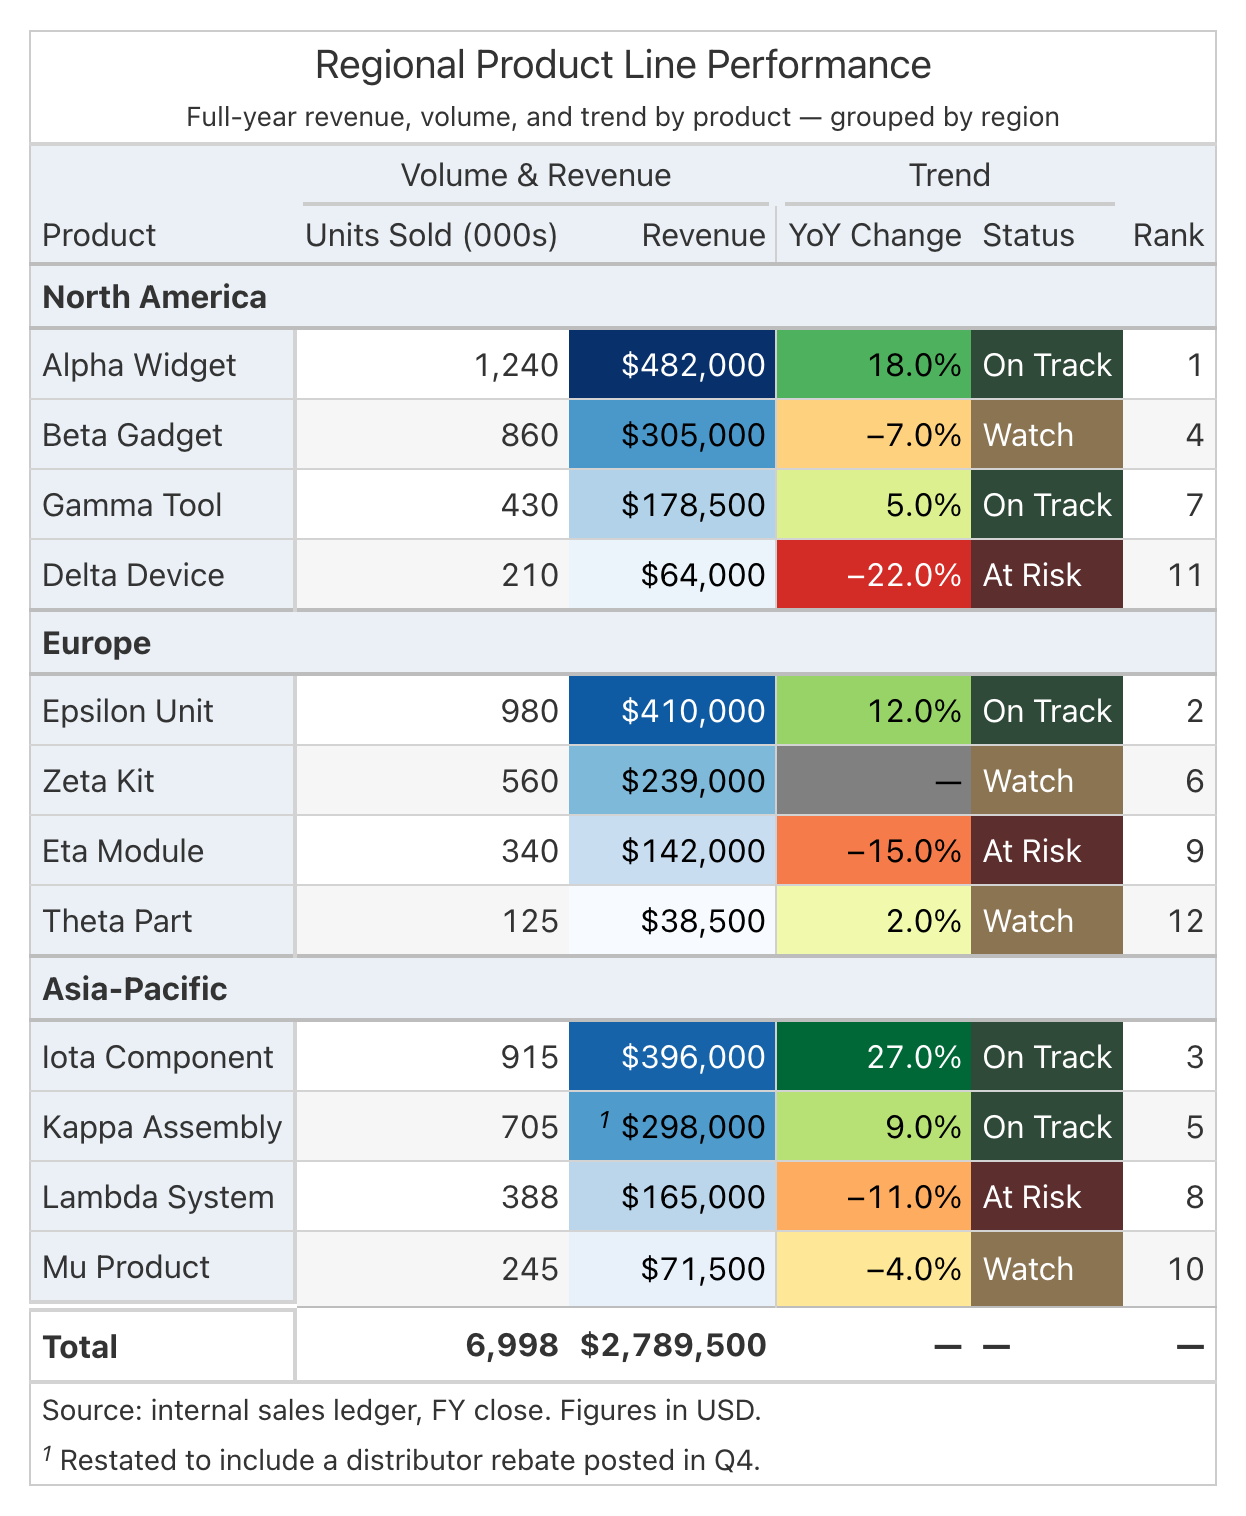
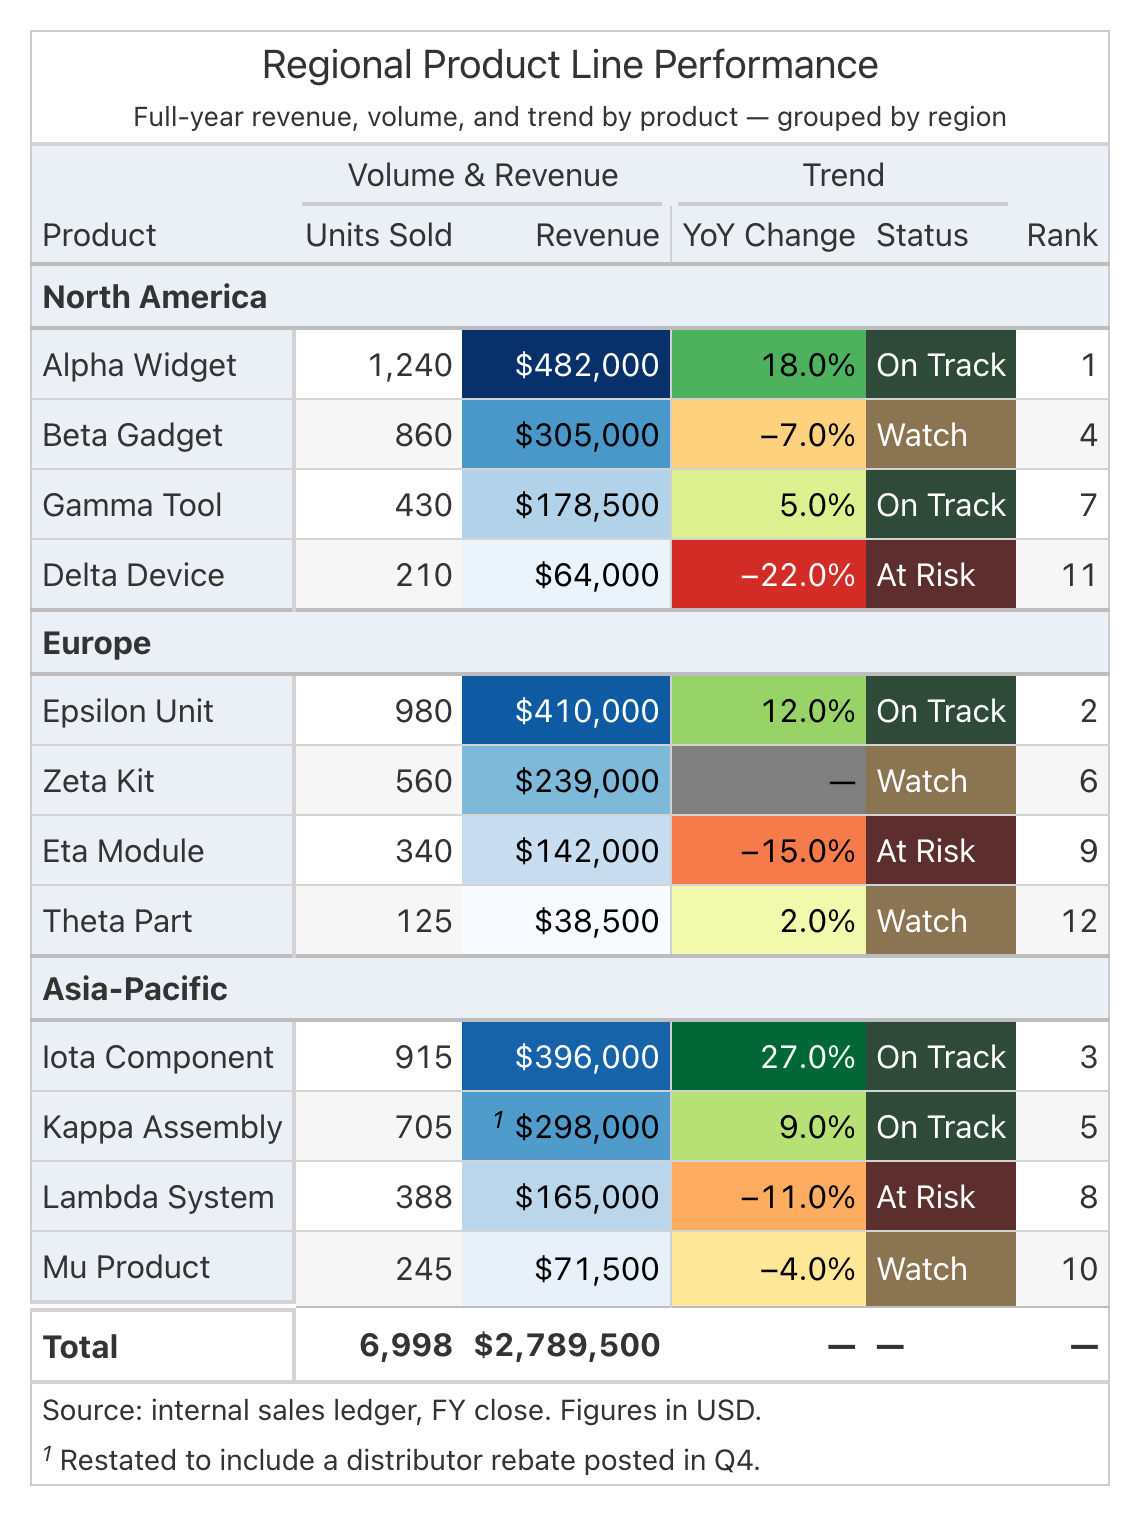
fix(skill): address second round of Codex review on PR #64
- heatmap(): force reverse=False for kind="sequential" — the docstring
  already claimed reverse is ignored there, but it was being forwarded to
  data_color() unconditionally, so reverse=True on a sequential measure
  silently flipped the magnitude encoding instead of doing nothing.
  Verified: data_color's rendered hexes are now byte-identical between
  reverse=True/False on a sequential column (the only earlier diff was
  great_tables' random per-render DOM id, not the fix).
- status_chip(): select rows by their stub row NAME (gt._stub.rows[i].rowname)
  instead of raw _tbl_data position when a stub exists. loc.body(rows=...)
  interprets integers as DISPLAY positions, and groupname_col can reorder
  display relative to the underlying data's row order; the demo's own rows
  happen to already be sorted by group so it didn't show the bug, but a
  caller with interleaved groups would have had status colors land on the
  wrong rows. Falls back to position-based selection when there's no stub.
  Verified directly against an interleaved-groups table (rows in
  data-order a/b/c/d, groups X/Y/X/Y): correct rows get the correct
  good/bad fill regardless of the grouped display reordering them to
  a/c/b/d.
- Demo data: the "Units Sold (000s)" column label claimed the raw values
  (1240, 860, ...) were in thousands, but they're literal unit counts —
  mislabeling overstated volume by 1000x. Relabeled to plain "Units Sold".
[…]

diff --git a/.claude/skills/great-tables-house/scripts/house_table.py b/.claude/skills/great-tables-house/scripts/house_table.py
@@ -342,10 +342,12 @@ def heatmap(gt, columns, *, kind, hue, domain=None, reverse=False):
     *worse* (cost overrun, error rate, latency, churn — "more is worse"),
     pass ``reverse=True`` so the palette's low/high ends swap (green stays
     "good" = negative, red stays "bad" = positive) instead of literally
-    reversing the color list. Ignored for ``kind="sequential"`` (a plain
-    magnitude has no good/bad orientation to flip). This is the parameter
-    ``references/RULES.md``'s "Percent / rate / change" rule tells callers
-    to pass.
+    reversing the color list. Actually ignored (forced ``False``) for
+    ``kind="sequential"`` — a plain magnitude has no good/bad orientation to
+    flip, so passing ``True`` there would silently flip the intended
+    light-to-dark magnitude encoding instead of doing nothing. This is the
+    parameter ``references/RULES.md``'s "Percent / rate / change" rule tells
+    callers to pass.
 
     THE GOTCHA this function exists to prevent: ``fmt_percent`` expects
     *fractional* values (``0.12`` renders as ``12%``) — a percent column
@@ -381,7 +383,7 @@ def heatmap(gt, columns, *, kind, hue, domain=None, reverse=False):
         na_color=PALETTE["neutral"]["na_cell"],
         truncate=False,
         autocolor_text=True,
-        reverse=reverse,
+        reverse=reverse if kind == "diverging" else False,
     )
 
 
@@ -412,6 +414,21 @@ def status_chip(gt, column, meaning):
     crash this function on the exact kind of missing status cell
     ``sub_missing(missing_text="—")`` is meant to handle gracefully
     elsewhere.
+
+    ``loc.body(rows=...)`` interprets a list of INTEGERS as **display**
+    positions — but with ``groupname_col=`` set, ``great_tables`` renders
+    rows grouped into sections, which can reorder them relative to the
+    underlying data's original row order (this table's own demo rows
+    happen to already be sorted by group, so it wouldn't show the bug, but
+    a caller whose source rows interleave groups would silently color the
+    wrong cells). When the table has a stub (``rowname_col=``), target rows
+    by their **row NAME** instead — a string, matched to the row's actual
+    identity regardless of how ``great_tables`` reorders it for display —
+    by reading ``gt._stub.rows`` (each entry's ``.rowname``, in original
+    data order, one per row of ``gt._tbl_data``). Without a stub there is
+    no row name to match against, so integer display positions are used as
+    a fallback (correct as long as the table has no ``groupname_col``, or
+    its groups already appear in source-row order).
     """
     fills = {
         "good": PALETTE["solid"]["forest"],
@@ -419,15 +436,20 @@ def status_chip(gt, column, meaning):
         "neutral": PALETTE["solid"]["tan"],
     }
     values = gt._tbl_data[column]
+    rownames = [r.rowname for r in gt._stub.rows]
+    has_stub = all(name is not None for name in rownames) and len(rownames) == len(values)
     for value, state in meaning.items():
         if state not in fills:
             raise ValueError("status_chip(): meaning must map to 'good'/'bad'/'neutral', got %r" % (state,))
-        rows = [i for i, v in enumerate(values) if not _is_missing(v) and v == value]
-        if not rows:
+        if has_stub:
+            selector = [name for name, v in zip(rownames, values) if not _is_missing(v) and v == value]
+        else:
+            selector = [i for i, v in enumerate(values) if not _is_missing(v) and v == value]
+        if not selector:
             continue
         gt = gt.tab_style(
             style=[style.fill(color=fills[state]), style.text(color="white")],
-            locations=loc.body(columns=column, rows=rows),
+            locations=loc.body(columns=column, rows=selector),
         )
     return gt
 
@@ -553,7 +575,7 @@ def build_house_table():
     gt = humanize_labels(
         gt,
         products,
-        overrides={"units_sold": "Units Sold (000s)", "yoy_change": "YoY Change"},
+        overrides={"units_sold": "Units Sold", "yoy_change": "YoY Change"},
     )
 
     # Big Color: exactly 2 colored measures (the ceiling). `revenue` is the
